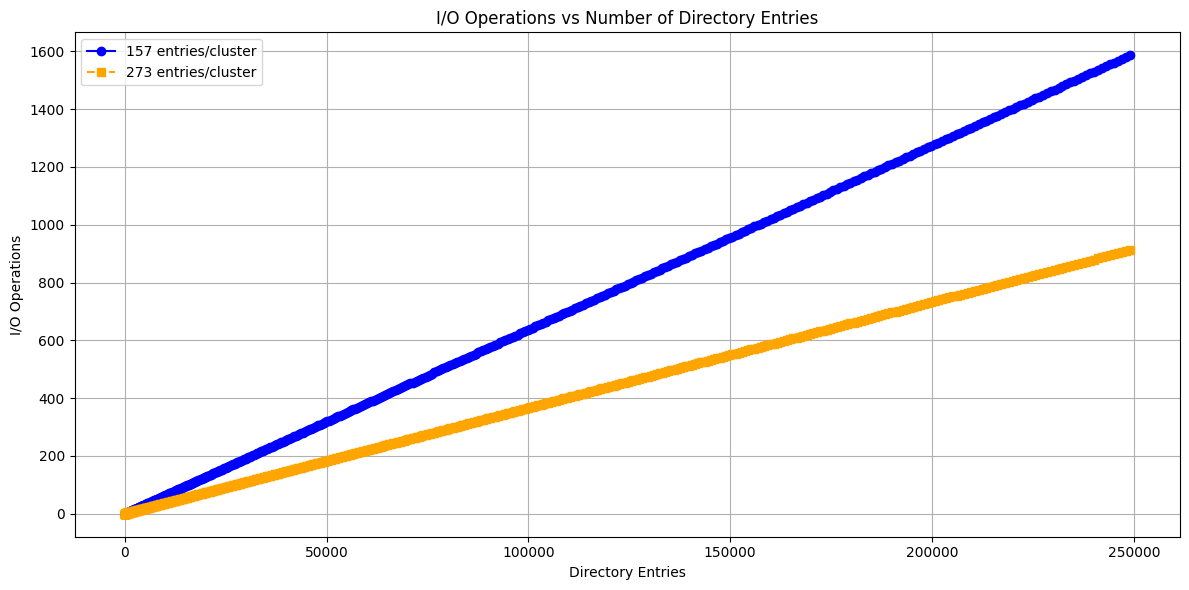
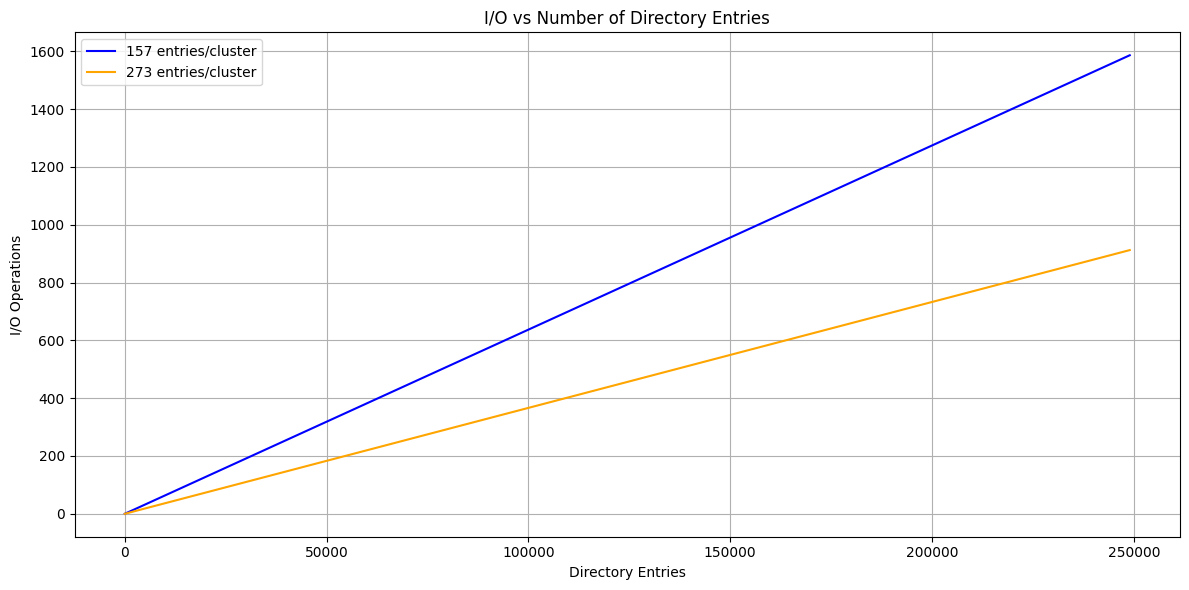
Bit-flip affect test Memleak fix Deadcode elimination

diff --git a/nifat32.c b/nifat32.c
@@ -224,6 +224,7 @@ static int _entry_add(cluster_addr_t cluster, directory_entry_t* meta) {
     buffer_t cluster_data = malloc_s(_fs_data.cluster_size);
     if (!_cluster_read(cluster, cluster_data, _fs_data.cluster_size)) {
         print_error("_cluster_read() encountered an error. Aborting...");
+        free_s(cluster_data);
         return -1;
     }
 
@@ -309,6 +310,7 @@ static int _entry_edit(cluster_addr_t cluster, const directory_entry_t* old_meta
                 return -4;
             }
 
+            free_s(cluster_data);
             return 1;
         } 
         else {
@@ -343,6 +345,7 @@ static int _entry_remove(cluster_addr_t cluster, const directory_entry_t* meta) 
 
     if (!_cluster_read(cluster, cluster_data, _fs_data.cluster_size)) {
         print_error("_cluster_read() encountered an error. Aborting...");
+        free_s(cluster_data);
         return -2;
     }
 
@@ -360,6 +363,7 @@ static int _entry_remove(cluster_addr_t cluster, const directory_entry_t* meta) 
                 return -3;
             }
 
+            free_s(cluster_data);
             return 1;
         } 
         else {
@@ -436,7 +440,7 @@ static int _unload_file_system(file_t* file) {
     return 1;
 }
 
-static int _unload_entry_system(directory_t* directory) {
+static int _unload_directory_system(directory_t* directory) {
     if (!directory) return -1;
     free_s(directory);
     return 1;
@@ -444,8 +448,8 @@ static int _unload_entry_system(directory_t* directory) {
 
 static int _unload_content_system(content_t* content) {
     if (!content) return -1;
-    if (content->content_type == CONTENT_TYPE_DIRECTORY)      _unload_entry_system(content->directory);
-    else if (content->content_type == CONTENT_TYPE_DIRECTORY) _unload_file_system(content->file);
+    if (content->content_type == CONTENT_TYPE_DIRECTORY) _unload_directory_system(content->directory);
+    else if (content->content_type == CONTENT_TYPE_FILE) _unload_file_system(content->file);
     free_s(content);
     return 1;
 }
@@ -684,13 +688,18 @@ int NIFAT32_change_meta(const ci_t ci, const cinfo_t* info) {
 
 int NIFAT32_put_content(const ci_t ci, cinfo_t* info) {
     print_debug("NIFAT32_put_content(ci=%i, info=%s/%s/%s)", ci, info->full_name, info->file_name, info->file_extension);
-    content_t* content = _get_content_from_table(ci);
-    if (!content) {
-        print_error("Content not found!");
-        return 0;
+    cluster_addr_t target = _fs_data.ext_root_cluster;
+    if (ci != PUT_TO_ROOT) {
+        content_t* content = _get_content_from_table(ci);
+        if (!content) {
+            print_error("Content not found!");
+            return 0;
+        }
+
+        target = content->meta.cluster;
     }
 
-    int is_found = _entry_search((char*)info->full_name, content->meta.cluster, NULL);
+    int is_found = _entry_search((char*)info->full_name, target, NULL);
     if (is_found < 0 && is_found != -4) {
         print_error("_entry_search() encountered an error [%i]. Aborting...", is_found);
         return 0;
@@ -698,7 +707,7 @@ int NIFAT32_put_content(const ci_t ci, cinfo_t* info) {
 
     directory_entry_t new_meta = { 0 };
     _create_entry(info->file_name, info->file_extension, info->type == STAT_DIR, _cluster_allocate(), 1, &new_meta);
-    int is_add = _entry_add(content->meta.cluster, &new_meta);
+    int is_add = _entry_add(target, &new_meta);
     if (is_add < 0) {
         print_error("_entry_add() encountered an error [%i]. Aborting...", is_add);
         return 0;

diff --git a/test/fat32_test.c b/test/fat32_test.c
@@ -1,3 +1,4 @@
+/* gcc-14 -DERROR_LOGS test/fat32_test.c nifat32.c src/* std/* -o test/fat32_test */
 #include "../nifat32.h"
 #include <stdio.h>
 #include <unistd.h>
@@ -24,6 +25,12 @@ int main(int argc, char* argv[]) {
         return EXIT_FAILURE;
     }
 
+    disk_fd = open(DISK_PATH, O_RDWR);
+    if (disk_fd < 0) {
+        fprintf(stderr, "%s not found!\n", DISK_PATH);
+        return EXIT_FAILURE;
+    }
+
     int count = atoi(argv[1]);
     if (!DSK_setup(_mock_sector_read_, _mock_sector_write_, SECTOR_SIZE)) {
         fprintf(stderr, "DSK_setup() error!\n");
@@ -47,35 +54,69 @@ int main(int argc, char* argv[]) {
     const char* data = "Hello there! This is a custom data!\n123345786780-764234][']\t\t\n\r\bqqq`12";
     int data_size = strlen(data) + 1;
 
+    int offset = 0;
     while (count-- > 0) {
+        if (!(count % 1000)) {
+            fprintf(stdout, 
+                "Hundled error count: %i\nUnhundled error count: %i\n",
+                handled_errors, unhundled_errors
+            );
+        }
+
+        if (!NIFAT32_content_exists(target_fatname)) {
+            handled_errors++;
+            fprintf(stderr, "File not found, but should be presented in FS!\n");
+
+            cinfo_t file = { .type = STAT_FILE };
+            str_memcpy(file.file_name, "test", 5);
+            str_memcpy(file.file_extension, "txt", 4);
+            name_to_fatname("test.txt", file.full_name);
+            if (!NIFAT32_put_content(PUT_TO_ROOT, &file)) {
+                handled_errors++;
+                fprintf(stderr, "File creation error!\n");
+                continue;
+            }
+        }
+
         ci_t ci = NIFAT32_open_content(target_fatname);
         if (ci < 0) {
-            handled_errors++;
-            fprintf(stderr, "Can't open content!\n");
+            unhundled_errors++;
+            // fprintf(stderr, "Can't open content, but this content should be presented or created!\n");
             continue;
         }
 
+        if (!(count % 1000)) {
+            offset += 10;
+        }
+
         int write_corrupted = 0;
-        if (!NIFAT32_write_buffer2content(ci, 0, (const_buffer_t)data, data_size)) {
+        if (!NIFAT32_write_buffer2content(ci, offset, (const_buffer_t)data, data_size)) {
             handled_errors++;
             write_corrupted = 1;
-            fprintf(stderr, "Can't write content!\n");
+            // fprintf(stderr, "Can't write content!\n");
         }
 
-        int read_cottupted = 0;
+        int read_corrupted = 0;
         unsigned char buffer[512] = { 0 };
-        if (!NIFAT32_read_content2buffer(ci, 0, (buffer_t)buffer, 512)) {
+        if (!NIFAT32_read_content2buffer(ci, offset, (buffer_t)buffer, 512)) {
             handled_errors++;
-            read_cottupted = 1;
-            fprintf(stderr, "Can't write content!\n");
+            read_corrupted = 1;
+            // fprintf(stderr, "Can't read content!\n");
         }
 
-        if (!write_corrupted && !read_cottupted) {
+        if (!write_corrupted && !read_corrupted) {
             if (strcmp(data, buffer)) {
                 unhundled_errors++;
             }
         }
+
+        NIFAT32_close_content(ci);
     }
+
+    fprintf(stdout, 
+        "Summary hundled error count: %i\nSummary unhundled error count: %i\n",
+        handled_errors, unhundled_errors
+    );
 
     return EXIT_SUCCESS;
 }

diff --git a/std/fatname.c b/std/fatname.c
@@ -1,46 +1,5 @@
 #include "../include/fatname.h"
 
-int is_fatname(const char* name) {
-    short result = 0;
-    unsigned short iterator = 0;
-    for (iterator = 0; iterator < 11; iterator++) {
-        if (name[iterator] < 0x20 && name[iterator] != 0x05) {
-            result = result | BAD_CHARACTER;
-        }
-        
-        switch (name[iterator]) {
-            case 0x2E: {
-                if ((result & NOT_CONVERTED_YET) == NOT_CONVERTED_YET) result |= TOO_MANY_DOTS;
-                result ^= NOT_CONVERTED_YET;
-                break;
-            }
-
-            case 0x22:
-            case 0x2A:
-            case 0x2B:
-            case 0x2C:
-            case 0x2F:
-            case 0x3A:
-            case 0x3B:
-            case 0x3C:
-            case 0x3D:
-            case 0x3E:
-            case 0x3F:
-            case 0x5B:
-            case 0x5C:
-            case 0x5D:
-            case 0x7C: result = result | BAD_CHARACTER; break;
-            default: break;
-        }
-
-        if (name[iterator] >= 'a' && name[iterator] <= 'z') {
-            result = result | LOWERCASE_ISSUE;
-        }
-    }
-
-    return result;
-}
-
 int fatname_to_name(const char* fatname, char* name) {
     if (fatname[0] == '.') {
         if (fatname[1] == '.') {

diff --git a/src/disk.c b/src/disk.c
@@ -88,6 +88,9 @@ int DSK_read_sector(sector_addr_t sa, unsigned char* buffer, int buff_size) {
         _unlock_area(sa, 1);
         return read_result;
     }
+    else {
+        print_error("Can't read-lock area sa=%u sc=1", sa);
+    }
 
     return 0;
 }
@@ -108,6 +111,9 @@ int DSK_readoff_sectors(sector_addr_t sa, sector_offset_t offset, unsigned char*
         _unlock_area(sa, sc);
         return 1;
     }
+    else {
+        print_error("Can't read-lock area sa=%u sc=%i", sa, sc);
+    }
 
     return 0;
 }
@@ -117,6 +123,9 @@ int DSK_write_sector(sector_addr_t sa, const unsigned char* data, int data_size)
         int write_result = _disk_io.write_sector(sa, 0, data, data_size);
         _unlock_area(sa, 1);
         return write_result;
+    }
+    else {
+        print_error("Can't write-lock area sa=%u sc=1", sa);
     }
 
     return 0;
@@ -137,6 +146,9 @@ int DSK_writeoff_sectors(sector_addr_t sa, sector_offset_t offset, const unsigne
 
         _unlock_area(sa, sc);
         return 1;
+    }
+    else {
+        print_error("Can't write-lock area sa=%u sc=%i", sa, sc);
     }
 
     return 0;

diff --git a/test/injector.py b/test/injector.py
@@ -17,7 +17,7 @@ def _inject_bitflips_mmap(file_path, num_flips=10):
 if __name__ == "__main__":
     parser = argparse.ArgumentParser(description="Inject bitflips into disk image.")
     parser.add_argument("-s", "--size", type=int, default=10)
-    parser.add_argument("-c", "--count", type=int, default=10000)
+    parser.add_argument("-c", "--count", type=int, default=1)
     parser.add_argument("-i", "--image", type=str, default="nifat32.img")
     args = parser.parse_args()
 

diff --git a/include/fatname.h b/include/fatname.h
@@ -3,13 +3,6 @@
 
 #include "str.h"
 
-#define LOWERCASE_ISSUE	  0x01
-#define BAD_CHARACTER	  0x02
-#define BAD_TERMINATION   0x04
-#define NOT_CONVERTED_YET 0x08
-#define TOO_MANY_DOTS     0x10
-
-int is_fatname(const char* name);
 int fatname_to_name(const char* fatname, char* name);
 int name_to_fatname(const char* name, char* fatname);
 

diff --git a/nifat32.h b/nifat32.h
@@ -200,6 +200,7 @@ int NIFAT32_close_content(ci_t ci);
 
 /*
 */
+#define PUT_TO_ROOT -1
 int NIFAT32_put_content(const ci_t ci, cinfo_t* info);
 
 /*

diff --git a/README.md b/README.md
@@ -31,12 +31,47 @@ Why `FAT32` as base? — Simple answer: because `FAT32` is a well-known file sys
 Well, `SEU`, or single event upset, is a physical event when electrons in the `CPU`, `RAM`, etc., get disturbed by ionic particles. This is very dangerous when a program controls, for example, an entire plane or space station. That's why any program solution that will work in high-evaluated systems should be prepared for `SEU`. </br>
 Of course, there are a couple of solutions for reducing the impact of `SEU` on chips, like:
 - [ECC](https://community.fs.com/encyclopedia/ecc-memory.html)
+
 But the problem here is that this solution works in `RAM` instead of `Flash` memory. This means that we can say that all data in `RAM` is secured, but we can't make a similar statement about `RWM` (read/write memory). (For `ROM`, the situation is different due to technical implementation. See this [topic](https://hackernoon.com/differences-between-ram-rom-and-flash-memory-all-you-need-to-know-ghr341i) for why `ROM` is secured against `SEU`).
 
 ## Impact of SEU
 For confidence in the danger of SEU to program stability, a test environment was created with fault-injection functions directly targeting memory. While we know that, in a real scenario, the program will reside in RAM with ECC, which protects against bit-flipping, the data used and stored by the program is not secured. This fact leads to many problems with user experience. </br>
-Here are the results of testing the unmodified FAT32 system versus NIFAT32 with checksum implementation only.  
-(Y-axis: number of bit-flips in data, X-axis: count of unhandled errors):
+For example, at about 200k bit flips we reach a situation where FAT32 (with checksum support) stops working with records:
+```
+...
+[WARN] (nifat32.c:188) directory_entry_t checksum validation error!
+[ERROR] (nifat32.c:522) Entry not found!
+Can't open content!
+Hundled error count: 10000
+Unhundled error count: 0
+```
+This is due to the violation of the `directory_entry_t` file name sequence: </br>
+A bit-flip occurs directly in one of the file names - `"TEST   0TXT "` (was `"TEST    TXT "`). This causes a checksum verification error. But this case does not represent a modification as a big improvement, because in the original FAT32 the same bit flip changes the file name, which will lead to the same error - `"File not found"`. One thing that in this case this error is accompanied by additional information - a checksum verification error. </br>
+For a visual example here are the results of testing the unmodified FAT32 system versus NIFAT32 with checksum implementation only. (Y-axis: number of bit-flips in data, X-axis: count of unhandled errors):
+
+<p align="center">
+	<img src="graphs/bitflips_source.png" alt="IO count depends on entry count"/>
+</p>
+
+Here we can see, that count of hundled error continue to grow after stop of bit-flip injection. In test program was implemented self-repair mechanism for re-creating broken entries:
+```
+if (!NIFAT32_content_exists(target_fatname)) {
+	handled_errors++;
+	fprintf(stderr, "File not found, but should be presented in FS!\n");
+
+	cinfo_t file = { .type = STAT_FILE };
+	str_memcpy(file.file_name, "test", 5);
+	str_memcpy(file.file_extension, "txt", 4);
+	name_to_fatname("test.txt", file.full_name);
+	if (!NIFAT32_put_content(PUT_TO_ROOT, &file)) {
+		handled_errors++;
+		fprintf(stderr, "File creation error!\n");
+		continue;
+	}
+}
+```
+But according to data, bit-flip happened in most dangerous zone - in file allocation table.
+
 
 ## File Allocation Table
 As mentioned, the **File Allocation Table (FAT)** is the most important part of the `FAT32` file system. I won't explain how this table works — just check this [topic](https://en.wikipedia.org/wiki/Design_of_the_FAT_file_system). </br>
